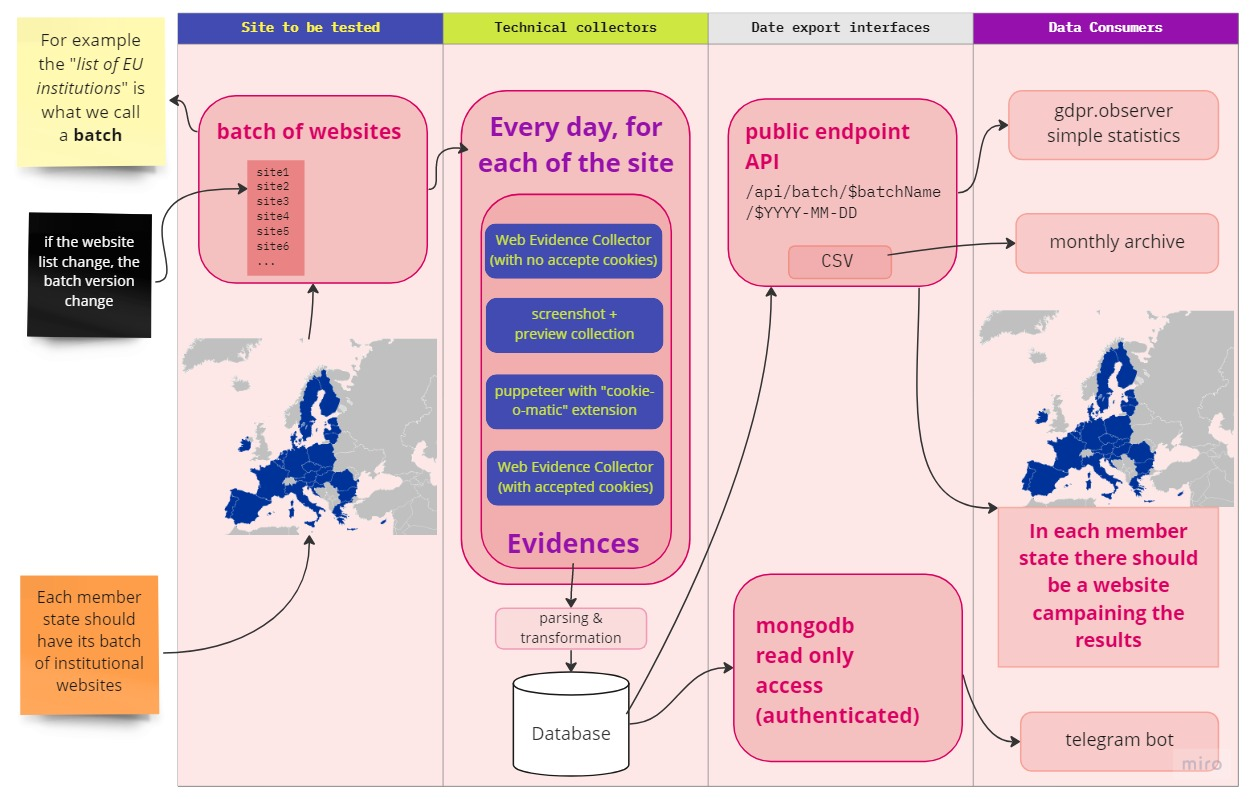
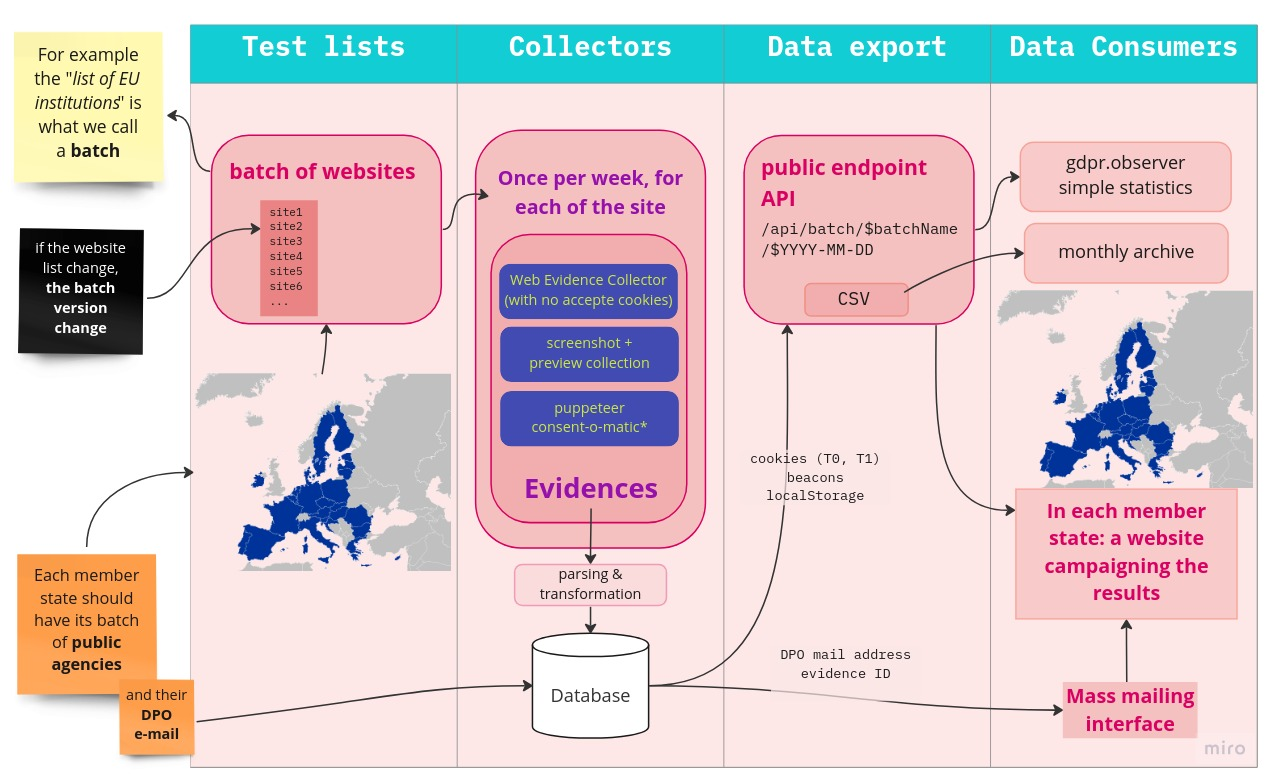
updated theme, blogposts, and architecture image

diff --git a/site/content/blog/monitora-pa-2022-experience.md b/site/content/blog/monitora-pa-2022-experience.md
@@ -1,8 +1,8 @@
 ---
 title: "The 2022 experience of Monitora-PA"
 date: 2023-01-01
-featured: true
 draft: false
+type: post
 ---
 
 In less than 1 year, more than 90% of the institutional website that were using Google Analytics, **removed it from their pages**. _This apply also to other Google services._

diff --git a/site/content/blog/how-to-replicate-at-european-scale.md b/site/content/blog/how-to-replicate-at-european-scale.md
@@ -1,8 +1,8 @@
 ---
 title: "Analysis: how to replicate Monitora-PA in European Scale?"
 date: 2023-01-05
-featured: true
 draft: false
+type: post
 ---
 
 #### The success of the Italian Monitor-PA experience has been surprising and inpiring.

diff --git a/site/content/blog/gdpro-architecture-design.md b/site/content/blog/gdpro-architecture-design.md
@@ -3,6 +3,7 @@ title: "gdpr.observer architecture design"
 date: 2023-01-18
 draft: false
 featured: true
+type: post
 description: "A design of our pipeline, with existing and future components"
 ---
 

diff --git a/site/content/blog/performances-and-dimensioning.md b/site/content/blog/performances-and-dimensioning.md
@@ -2,7 +2,7 @@
 title: "Performances and Dimensioning"
 description: "How many website we can test per day?"
 date: 2023-01-10
-featured: true
+type: post
 draft: false
 ---
 

diff --git a/site/content/blog/who-we-talk-to.md b/site/content/blog/who-we-talk-to.md
@@ -1,7 +1,7 @@
 ---
 title: "Who we are looking for?"
 date: 2023-01-25
-featured: true
+type: post
 draft: false
 ---
 
